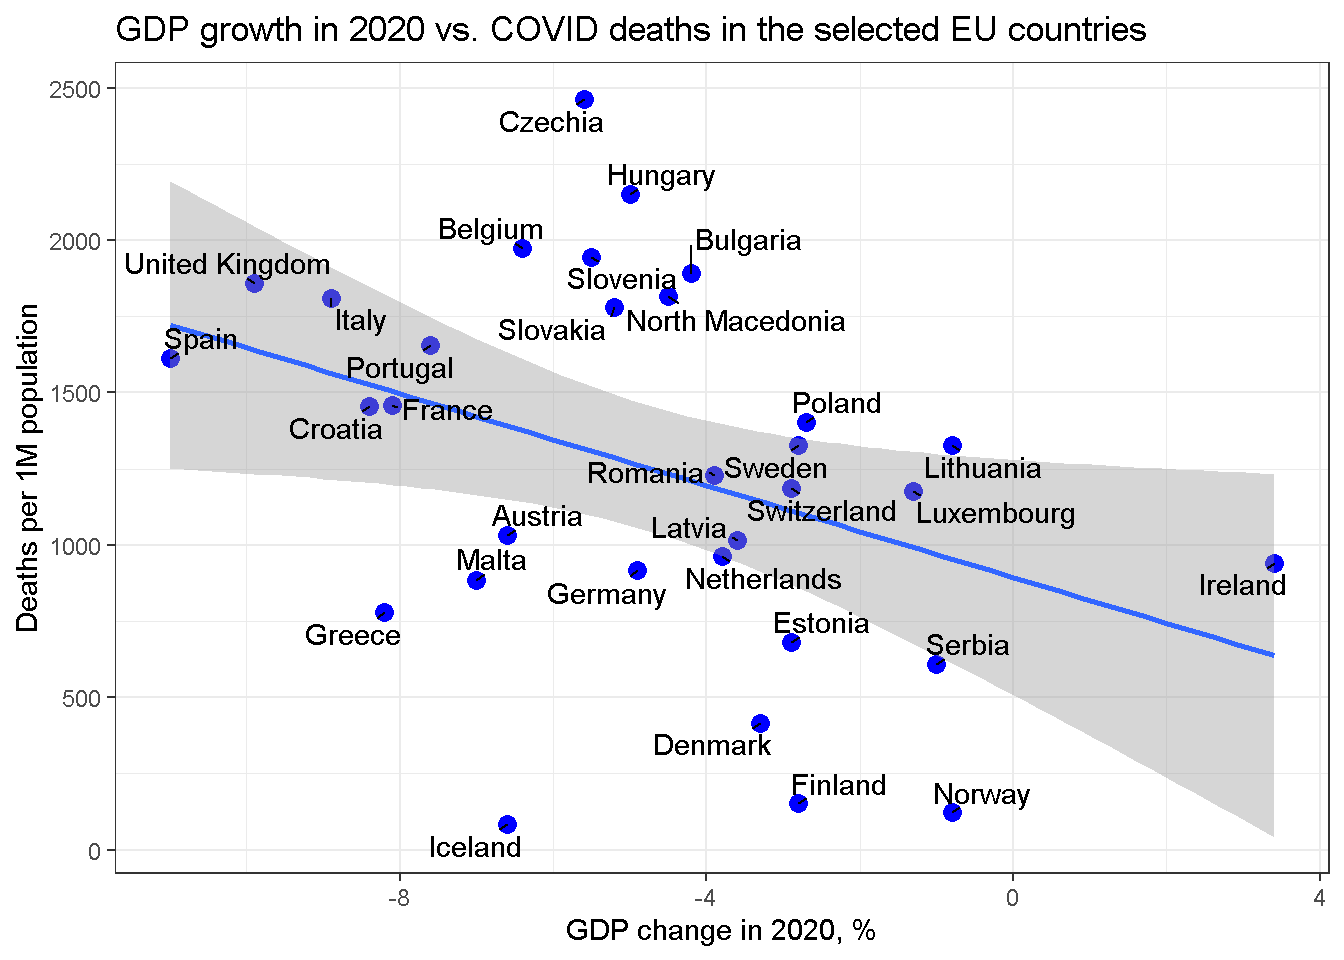
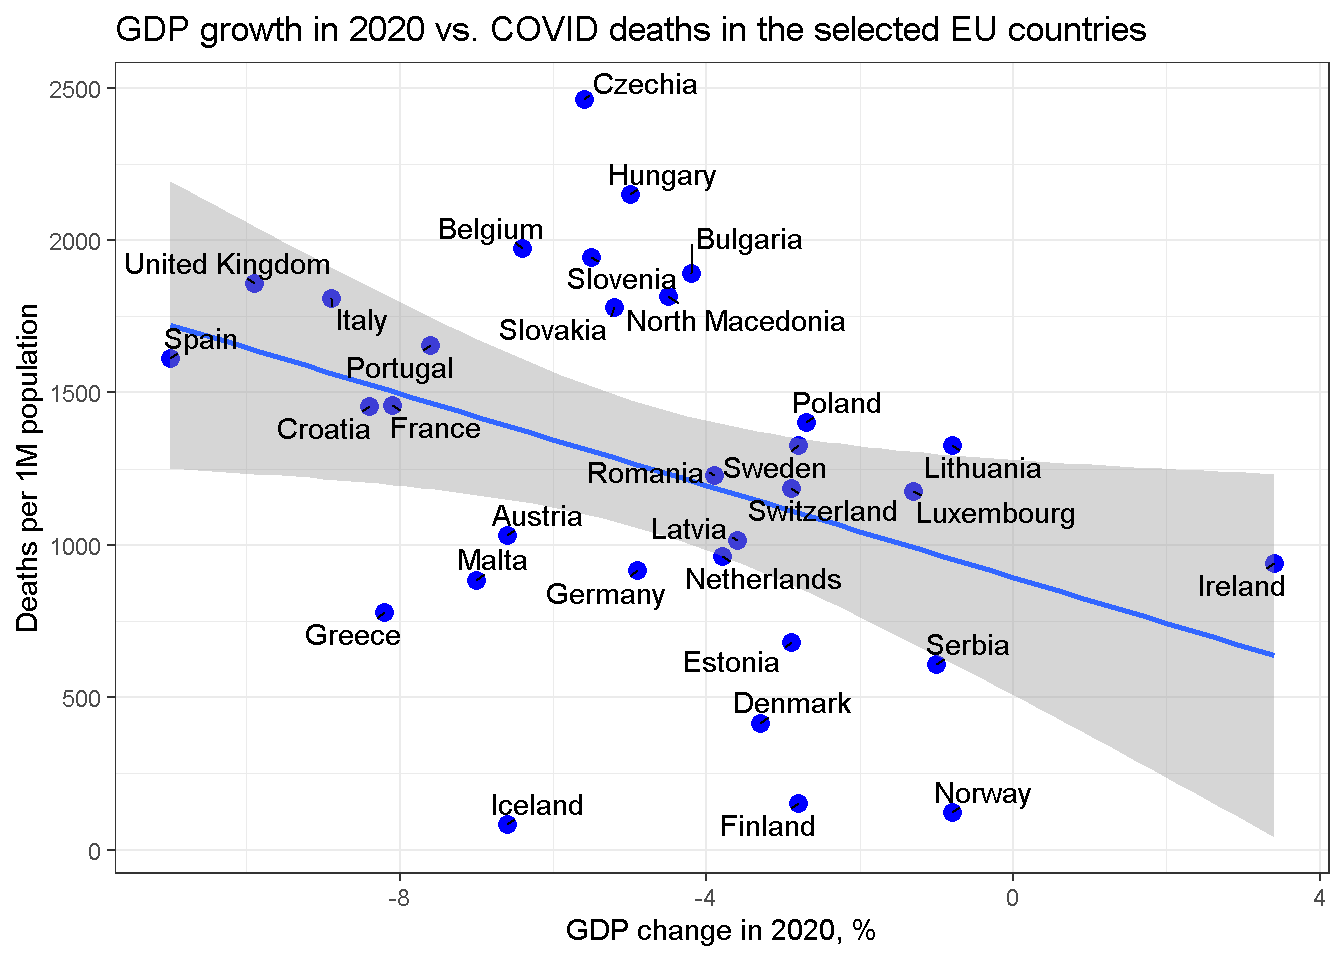
Post update

diff --git a/ru/post/2021-03-31-covid-and-gpd/index.html b/ru/post/2021-03-31-covid-and-gpd/index.html
@@ -49,7 +49,7 @@
 <meta itemprop="name" content="Quick look at data: спасение жизней в эпидемию vs. разрушение экономики - верна ли альтернатива?">
 <meta itemprop="description" content="Постановка задачи В борьбе с ковидом страны несут огромные экономические потери, поэтому разумно задаться вопросом насколько все это делается эффективно, т. е. как транслируются всевозможные локдауны в спасение жизней. Никакого прямого эксперимента нам недоступно, но можно сделать сравнительный анализ между странами. Логично предположить, что те страны, которые вводили самые жесткие меры должны нести наибольшие экономические потери, но одновременно и спасти максимальное число жизней. Нулевая гипотеза таким образом состоит в том, что значение смертности от ковид в пересчете на миллион населения должно положительно коррелировать с изменением ВВП."><meta itemprop="datePublished" content="2024-03-31T10:10:00&#43;00:00" />
 <meta itemprop="dateModified" content="2024-03-31T10:10:00&#43;00:00" />
-<meta itemprop="wordCount" content="998">
+<meta itemprop="wordCount" content="995">
 <meta itemprop="keywords" content="R,RStudio,COVID19,XML,Tools,Howto,Packages," /><meta name="twitter:card" content="summary"/>
 <meta name="twitter:title" content="Quick look at data: спасение жизней в эпидемию vs. разрушение экономики - верна ли альтернатива?"/>
 <meta name="twitter:description" content="Постановка задачи В борьбе с ковидом страны несут огромные экономические потери, поэтому разумно задаться вопросом насколько все это делается эффективно, т. е. как транслируются всевозможные локдауны в спасение жизней. Никакого прямого эксперимента нам недоступно, но можно сделать сравнительный анализ между странами. Логично предположить, что те страны, которые вводили самые жесткие меры должны нести наибольшие экономические потери, но одновременно и спасти максимальное число жизней. Нулевая гипотеза таким образом состоит в том, что значение смертности от ковид в пересчете на миллион населения должно положительно коррелировать с изменением ВВП."/>
@@ -309,7 +309,7 @@
 </code></pre></div><div class="highlight"><pre class="chroma"><code class="language-fallback" data-lang="fallback">## [1] -0.2776102
 </code></pre></div><div class="highlight"><pre class="chroma"><code class="language-r" data-lang="r"><span class="nf">cor</span><span class="p">(</span><span class="n">dt.cor</span><span class="o">$</span><span class="n">Deaths.1M.pop</span><span class="p">,</span> <span class="n">dt.cor</span><span class="o">$</span><span class="n">GDP.Change.2020</span><span class="p">,</span> <span class="n">method</span><span class="o">=</span><span class="s">&#34;spearman&#34;</span><span class="p">)</span>
 </code></pre></div><div class="highlight"><pre class="chroma"><code class="language-fallback" data-lang="fallback">## [1] -0.4162465
-</code></pre></div><p>Вместе с тем, статистическая значимость этой корреляции низкая. Можно сделать лирейную регрессию и убедиться в этом. Но опять же мы получаем отрицательный, хотя и околонулевой коэффициент.</p>
+</code></pre></div><p>Вместе с тем, статистическая значимость этой корреляции низкая. Можно сделать линейную регрессию и убедиться в этом. Но опять же мы получаем отрицательный, хотя и околонулевой коэффициент.</p>
 <div class="highlight"><pre class="chroma"><code class="language-r" data-lang="r"><span class="n">lm1</span> <span class="o">&lt;-</span> <span class="nf">lm</span><span class="p">(</span> <span class="n">Deaths.1M.pop</span> <span class="o">~</span> <span class="n">GDP.Change.2020</span><span class="p">,</span> <span class="n">data</span> <span class="o">=</span> <span class="n">dt.europe.dat</span><span class="p">)</span>
 <span class="nf">summary</span><span class="p">(</span> <span class="n">lm1</span> <span class="p">)</span>
 </code></pre></div><div class="highlight"><pre class="chroma"><code class="language-fallback" data-lang="fallback">## 
@@ -347,7 +347,7 @@
 <div class="highlight"><pre class="chroma"><code class="language-r" data-lang="r"><span class="nf">ggplot</span><span class="p">(</span><span class="n">dt.europe.dat</span><span class="p">,</span> <span class="nf">aes</span><span class="p">(</span><span class="n">x</span><span class="o">=</span><span class="n">GDP.Change.2020</span><span class="p">,</span> <span class="n">y</span> <span class="o">=</span><span class="n">Deaths.1M.pop</span><span class="p">))</span><span class="o">+</span>
   <span class="nf">geom_point</span><span class="p">(</span><span class="n">size</span><span class="o">=</span><span class="m">3</span><span class="p">,</span> <span class="n">color</span><span class="o">=</span><span class="s">&#34;blue&#34;</span><span class="p">)</span><span class="o">+</span>
   <span class="nf">geom_smooth</span><span class="p">(</span><span class="n">method</span><span class="o">=</span><span class="s">&#34;lm&#34;</span><span class="p">)</span><span class="o">+</span>
-  <span class="nf">geom_text_repel</span><span class="p">(</span> <span class="nf">aes</span><span class="p">(</span><span class="n">x</span><span class="o">=</span><span class="n">GDP.Change.2020</span><span class="p">,</span> <span class="n">y</span> <span class="o">=</span><span class="n">Deaths.1M.pop</span><span class="p">,</span> <span class="n">label</span><span class="o">=</span><span class="n">Country.Other</span><span class="p">),</span> <span class="n">max.overlaps</span> <span class="o">=</span> <span class="kc">Inf</span><span class="p">,</span> <span class="n">min.segment.length</span> <span class="o">=</span> <span class="m">0</span><span class="p">)</span><span class="o">+</span>
+  <span class="nf">geom_text_repel</span><span class="p">(</span> <span class="nf">aes</span><span class="p">(</span><span class="n">x</span><span class="o">=</span><span class="n">GDP.Change.2020</span><span class="p">,</span> <span class="n">y</span> <span class="o">=</span><span class="n">Deaths.1M.pop</span><span class="p">,</span> <span class="n">label</span><span class="o">=</span><span class="n">Country.Other</span><span class="p">),</span> <span class="n">min.segment.length</span> <span class="o">=</span> <span class="m">0</span><span class="p">)</span><span class="o">+</span>
   <span class="nf">theme_bw</span><span class="p">()</span><span class="o">+</span>
   <span class="nf">xlab</span><span class="p">(</span><span class="s">&#34;GDP change in 2020, %&#34;</span><span class="p">)</span><span class="o">+</span>
   <span class="nf">ylab</span><span class="p">(</span><span class="s">&#34;Deaths per 1M population&#34;</span><span class="p">)</span> <span class="o">+</span> 
